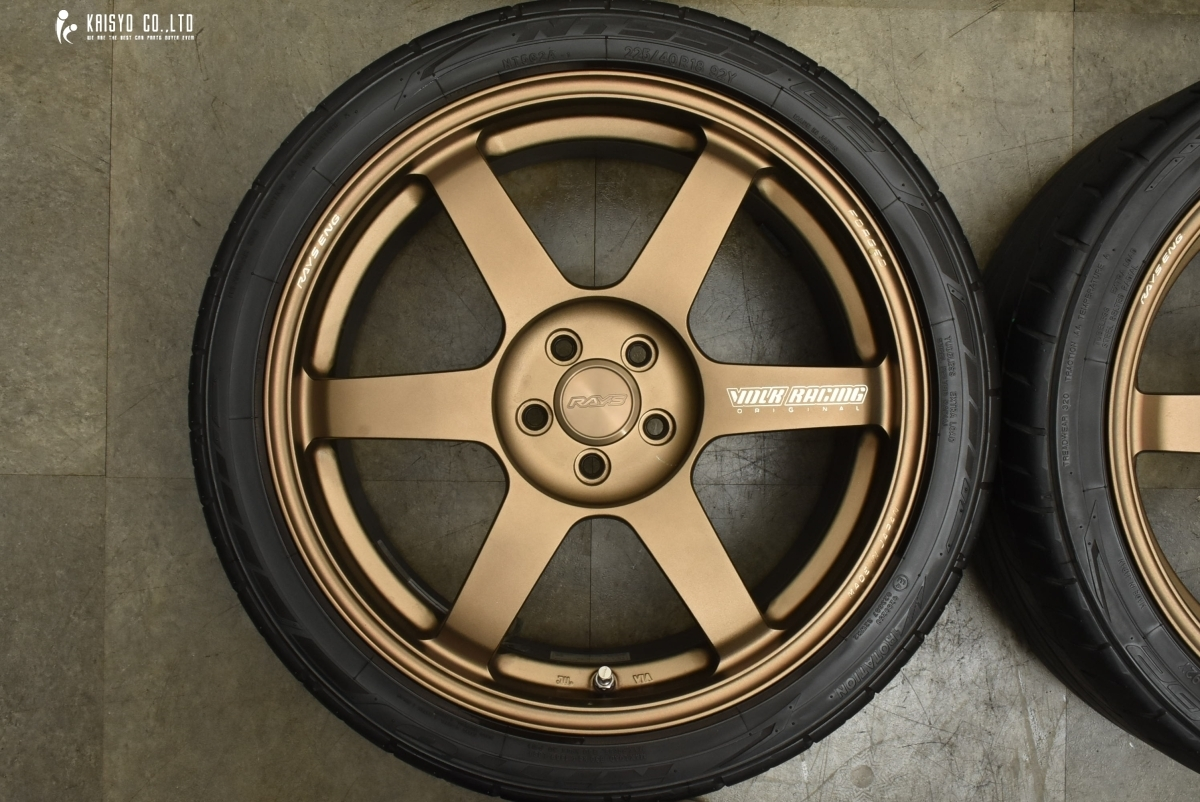
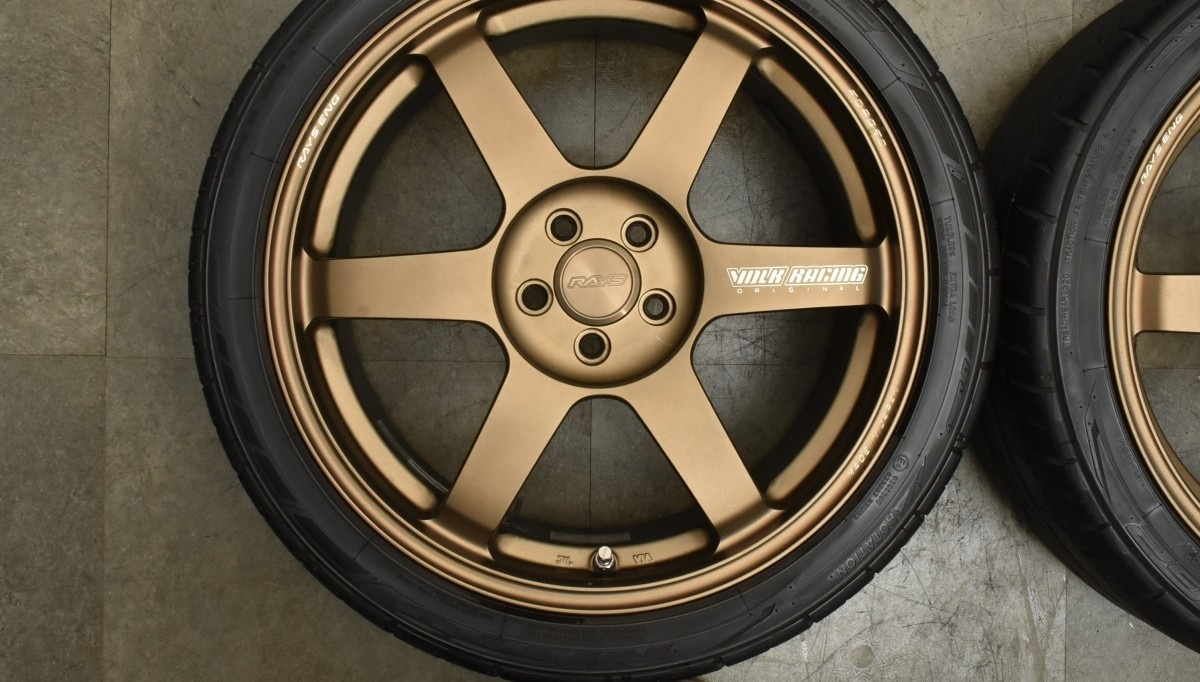
タイヤLP: 画像縦横比維持、FVロゴ写真差替え、買取相場テキストのみに変更

diff --git a/lp_tire.html b/lp_tire.html
@@ -63,7 +63,7 @@
     display: flex; gap: 8px; justify-content: center;
   }
   .fv-photo img {
-    width: 48%; height: auto; aspect-ratio: 3/2; object-fit: cover;
+    width: 48%; height: auto; object-fit: contain;
     border-radius: 8px; box-shadow: 0 4px 12px rgba(0,0,0,0.15);
   }
   .fv-points {
@@ -123,7 +123,7 @@
     background: #f8faf8; border-radius: 8px; overflow: hidden;
     border: 2px solid #e0ece4; text-align: center;
   }
-  .target-card img { width: 100%; height: 110px; object-fit: cover; }
+  .target-card img { width: 100%; height: auto; object-fit: contain; }
   .target-card .card-name {
     padding: 8px; font-size: 13px; font-weight: 900; color: #1A1311;
   }
@@ -167,24 +167,23 @@
   }
   .price-section .section-title { color: #fff; }
   .price-section .section-title .green { color: #79af9b; }
-  .price-grid {
-    display: grid; grid-template-columns: repeat(2, 1fr); gap: 10px;
+  .price-list {
     max-width: 500px; margin: 10px auto 0;
   }
-  .price-card {
-    background: #fff; border-radius: 8px; overflow: hidden;
-    box-shadow: 0 3px 10px rgba(0,0,0,0.3);
+  .price-row {
+    display: flex; align-items: center; justify-content: space-between;
+    background: #fff; padding: 10px 14px; margin-bottom: 6px;
+    border-radius: 6px;
   }
-  .price-card img { width: 100%; height: 95px; object-fit: cover; }
-  .price-card .price-info { padding: 8px 10px; }
-  .price-card .price-name {
-    font-size: 11px; font-weight: 700; color: #555; line-height: 1.3;
-    margin-bottom: 4px; min-height: 28px;
+  .price-row .price-name {
+    font-size: 12px; font-weight: 700; color: #333; line-height: 1.4;
+    flex: 1;
   }
-  .price-card .price-amount {
-    font-size: 24px; font-weight: 900; color: #c0392b; line-height: 1;
+  .price-row .price-amount {
+    font-size: 22px; font-weight: 900; color: #c0392b; white-space: nowrap;
+    margin-left: 12px;
   }
-  .price-card .price-amount small { font-size: 13px; }
+  .price-row .price-amount small { font-size: 12px; }
   .price-note {
     text-align: center; font-size: 10px; color: rgba(255,255,255,0.5);
     margin-top: 10px;
@@ -335,7 +334,7 @@
     text-align: center; border: 2px solid #e0ece4; border-radius: 6px; overflow: hidden;
     background: #fff;
   }
-  .other-card img { width: 100%; height: 60px; object-fit: cover; }
+  .other-card img { width: 100%; height: 60px; object-fit: contain; }
   .other-card .card-label {
     font-size: 10px; font-weight: 700; color: #333; padding: 4px 2px;
   }
@@ -415,7 +414,7 @@
 
     <div class="fv-photo">
       <img src="img/tire_ho1.jpg?v=2" alt="ホイール＋タイヤセット">
-      <img src="img/wheel_rim_bs.jpg?v=2" alt="VOLK RACING ホイール">
+      <img src="img/tire_ho2.jpg?v=1" alt="ホイール＋タイヤ 4本セット">
     </div>
 
     <div class="fv-points">
@@ -530,34 +529,30 @@
 <div class="section">
   <div class="price-section">
     <div class="section-title">買取<span class="green">相場情報</span><span class="underline" style="background:#79af9b;"></span></div>
-    <div class="price-grid">
-      <div class="price-card">
-        <img src="img/tire_souba01.jpg?v=2" alt="Weds VELVA + ブリザック VRX3">
-        <div class="price-info">
-          <div class="price-name">Weds VELVA 19インチ +<br>ブリザック VRX3</div>
-          <div class="price-amount">110,000<small>円</small></div>
-        </div>
+    <div class="price-list">
+      <div class="price-row">
+        <div class="price-name">GRスープラ RZ 純正19インチ + ブリザック VRX3</div>
+        <div class="price-amount">150,000<small>円</small></div>
       </div>
-      <div class="price-card">
-        <img src="img/tire_souba02.jpg?v=2" alt="GRスープラ純正 + ブリザック VRX3">
-        <div class="price-info">
-          <div class="price-name">GRスープラ RZ 純正19インチ +<br>ブリザック VRX3</div>
-          <div class="price-amount">150,000<small>円</small></div>
-        </div>
+      <div class="price-row">
+        <div class="price-name">ロールスロイス ゴースト純正20インチ + アイスガード G075</div>
+        <div class="price-amount">120,000<small>円</small></div>
       </div>
-      <div class="price-card">
-        <img src="img/tire_souba03.jpg?v=2" alt="ロールスロイス ゴースト純正">
-        <div class="price-info">
-          <div class="price-name">ロールスロイス ゴースト純正 +<br>アイスガード G075</div>
-          <div class="price-amount">120,000<small>円</small></div>
-        </div>
+      <div class="price-row">
+        <div class="price-name">Weds VELVA 19インチ + ブリザック VRX3</div>
+        <div class="price-amount">110,000<small>円</small></div>
       </div>
-      <div class="price-card">
-        <img src="img/tire_souba06.jpg?v=2" alt="アイスガード iG70">
-        <div class="price-info">
-          <div class="price-name">ヨコハマ アイスガード iG70<br>265/40R20</div>
-          <div class="price-amount">95,000<small>円</small></div>
-        </div>
+      <div class="price-row">
+        <div class="price-name">ヨコハマ アイスガード iG70 265/40R20</div>
+        <div class="price-amount">95,000<small>円</small></div>
+      </div>
+      <div class="price-row">
+        <div class="price-name">ブリヂストン ブリザック DM-V3 265/65R17</div>
+        <div class="price-amount">20,000<small>円</small></div>
+      </div>
+      <div class="price-row">
+        <div class="price-name">ダンロップ ウインターマックス SJ8+ 225/60R18</div>
+        <div class="price-amount">20,000<small>円</small></div>
       </div>
     </div>
     <div class="price-note">※上記は買取相場の一例です。実際の買取金額は商品の状態等により異なります。</div>
